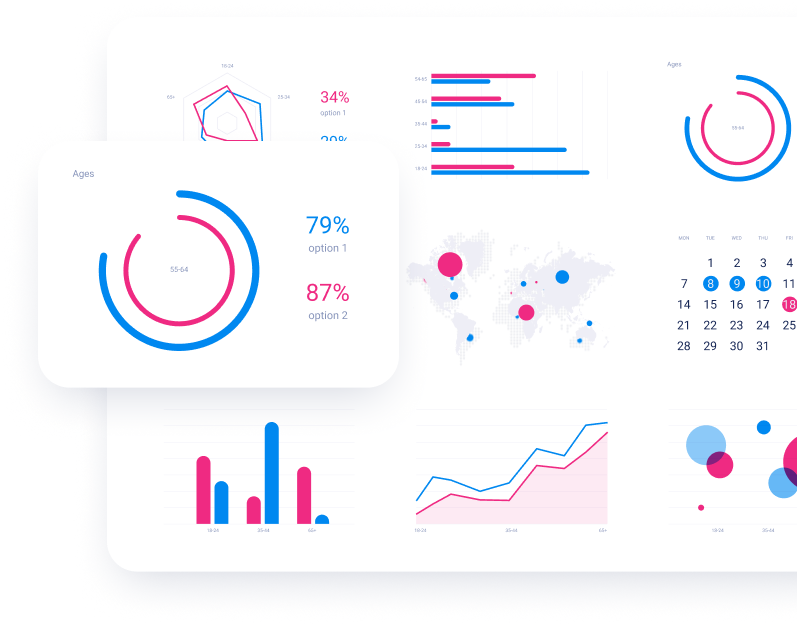
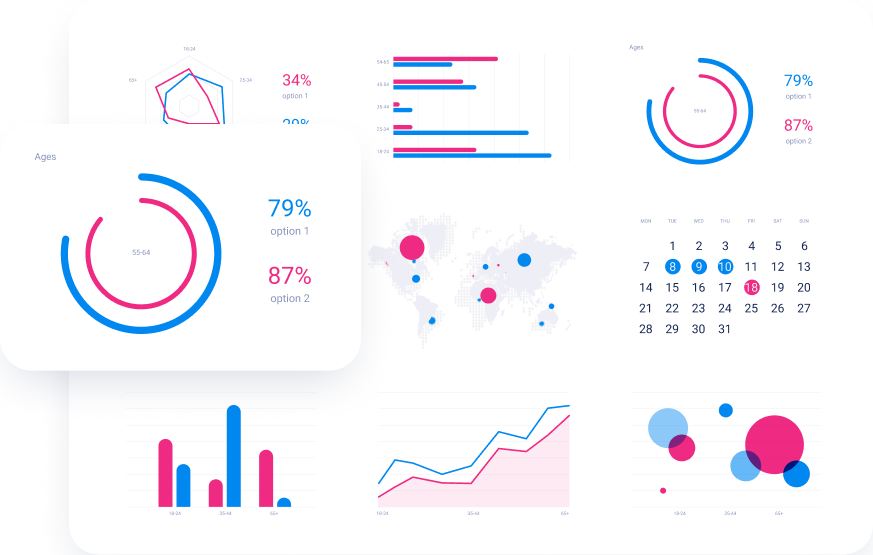
branch header

diff --git a/_header.sass b/_header.sass
@@ -6,6 +6,7 @@
     height: 815px
     background-image: url(img/Backgraund_top_new.png)
     background-position: left bottom
+    overflow-x: hidden
 
 .logo__top
     background-image: url(img/logo_top.svg)
@@ -93,20 +94,24 @@ label
     display: flex
     justify-content: space-between
     align-items: flex-start
-
+    gap: 5vw
+    
 .main__right
-    width: 47%
-
+    width: 873px
+    flex-shrink: 0
+    
 .img__box
-    height: 625px
+    height: 555px
     background: url(img/main-screen.png)
     background-repeat: no-repeat
-    background-size: 100% auto
-    background-position: right
+    background-position: left
+    flex-shrink: 0
+    filter: drop-shadow(0px 18px 50px rgba(25, 42, 89, 0.20))
 
 .main__left
-    width: 35%
-    margin: 0 5% 0 13%
+    width: 550px
+    margin: 0 10px
+    flex-shrink: 0
 
 .title__h1
     @include text(700, 50px, 60px, #FFFFFF)
@@ -180,6 +185,7 @@ label
         flex-direction: column-reverse
         align-items: center
         align-content: center
+        gap: 0
 
     .main__left
         width: 90%
@@ -230,7 +236,7 @@ label
 
 @media screen and (max-width: 600px)
     .top
-        height: calc(38vw + 588px) // 137vw
+        height: calc(38vw + 588px)
         background-image: url(img/Backgraund_top_new.png)
 
     .header-nav

diff --git a/style.css b/style.css
@@ -23,6 +23,7 @@ body {
   height: 815px;
   background-image: url(img/Backgraund_top_new.png);
   background-position: left bottom;
+  overflow-x: hidden;
 }
 
 .logo__top {
@@ -131,23 +132,27 @@ label {
   display: flex;
   justify-content: space-between;
   align-items: flex-start;
+  gap: 5vw;
 }
 
 .main__right {
-  width: 47%;
+  width: 873px;
+  flex-shrink: 0;
 }
 
 .img__box {
-  height: 625px;
+  height: 555px;
   background: url(img/main-screen.png);
   background-repeat: no-repeat;
-  background-size: 100% auto;
-  background-position: right;
+  background-position: left;
+  flex-shrink: 0;
+  filter: drop-shadow(0px 18px 50px rgba(25, 42, 89, 0.2));
 }
 
 .main__left {
-  width: 35%;
-  margin: 0 5% 0 13%;
+  width: 550px;
+  margin: 0 10px;
+  flex-shrink: 0;
 }
 
 .title__h1 {
@@ -244,6 +249,7 @@ label {
     flex-direction: column-reverse;
     align-items: center;
     align-content: center;
+    gap: 0;
   }
   .main__left {
     width: 90%;

diff --git a/index.html b/index.html
@@ -41,7 +41,7 @@
             </div>
 
         </header>
-        <main class="main">
+        <main class=" container main">
             <div class="main__left">
                 <h1 class="title__h1">Monitor your business on real-time dashboard</h1>
                 <p class="description desc1">Lorem ipsum dolor sit amet, consectetur adipiscing elit. Elementum nisi aliquet volutpat pellentesque volutpat est. Sapien in etiam vitae nibh nunc mattis imperdiet sed nullam. </p>

diff --git a/slider.js b/slider.js
@@ -4,7 +4,7 @@ document.addEventListener('touchend', handleTouchEnd, false);
 
 const offersBox = document.querySelector('.offers-box');
 
-console.log(offersBox);
+// console.log(offersBox);
 
 let x1 = null;
 let x2  = null;
